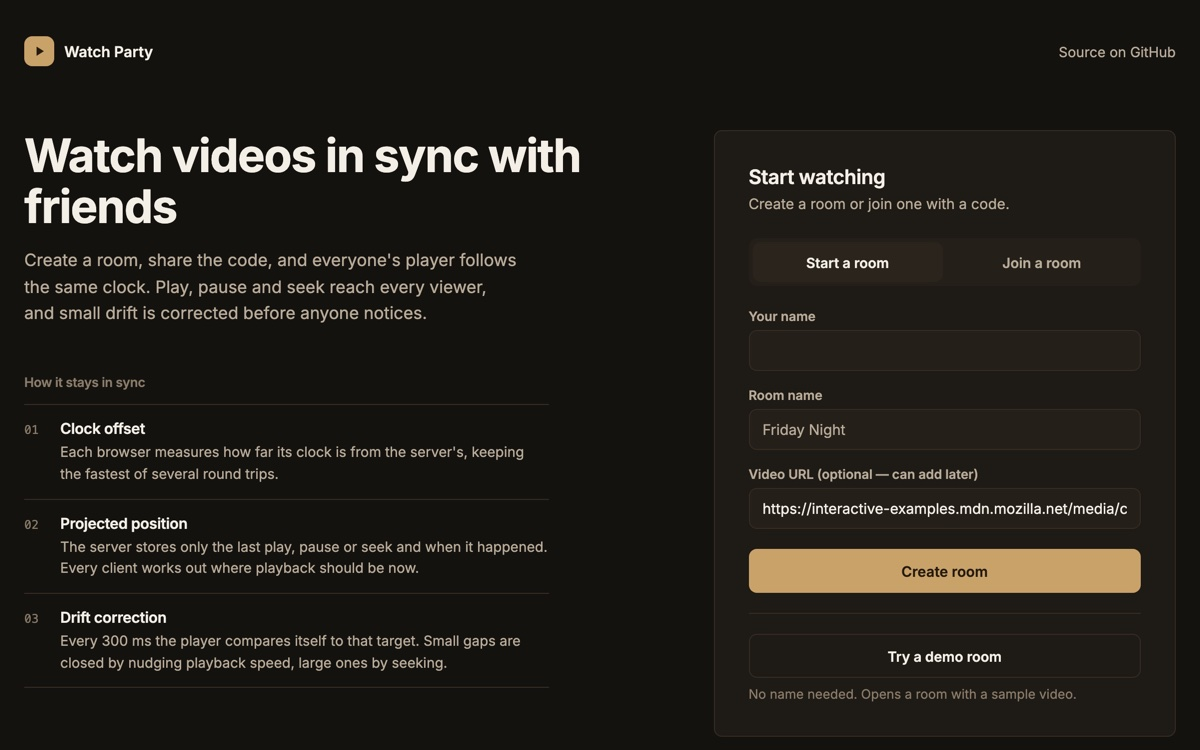
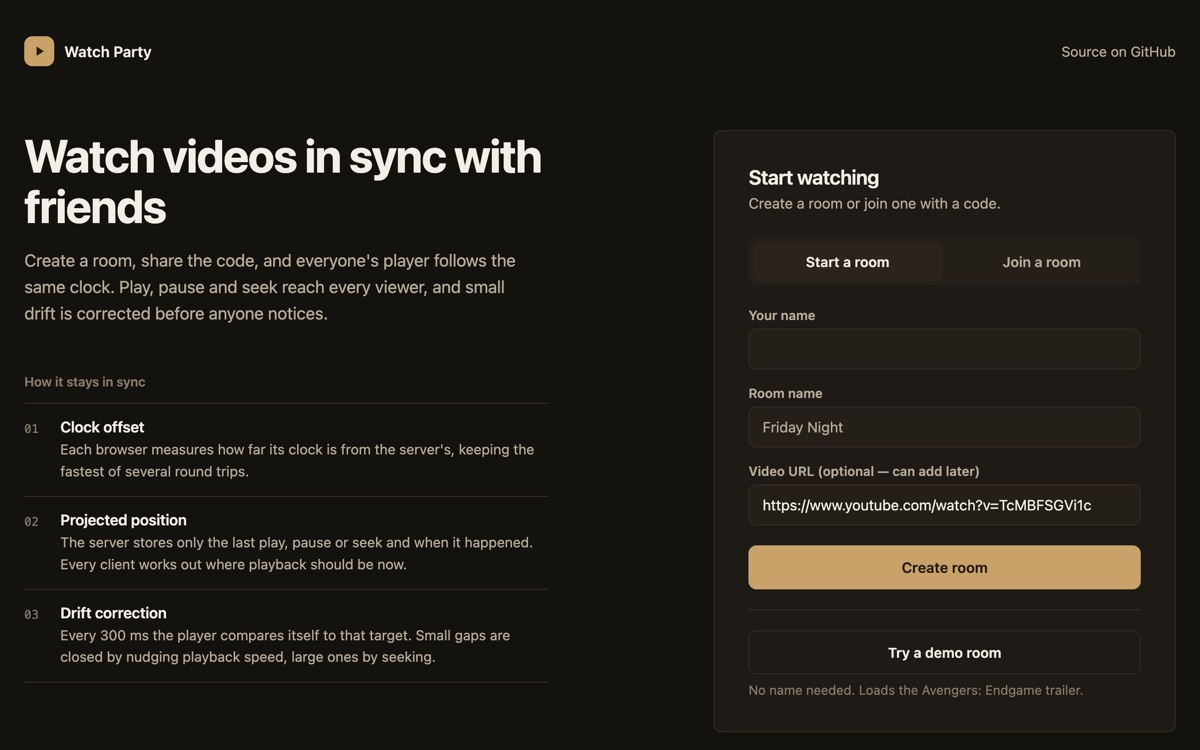
Shorten the demo note and retake the landing screenshot
The longer note wrapped to two lines; the screenshot now shows the
trailer URL and the one-line note.

diff --git a/watch-party/client/src/pages/Home.jsx b/watch-party/client/src/pages/Home.jsx
@@ -177,7 +177,7 @@ export default function Home() {
             <button type="button" className="secondary-btn" onClick={handleDemo} disabled={busy}>
               Try a demo room
             </button>
-            <p>No name needed. Opens a room with the Avengers: Endgame trailer.</p>
+            <p>No name needed. Loads the Avengers: Endgame trailer.</p>
           </div>
 
           {error && <p className="error">{error}</p>}
